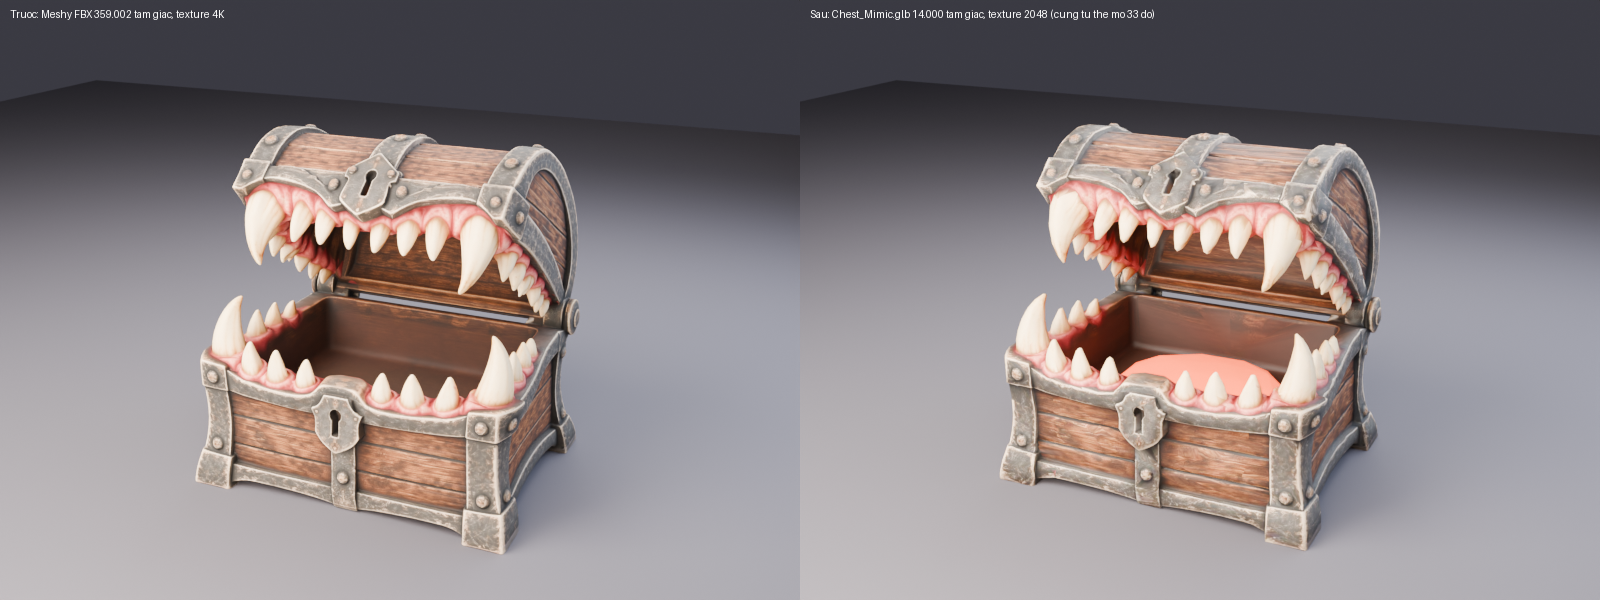
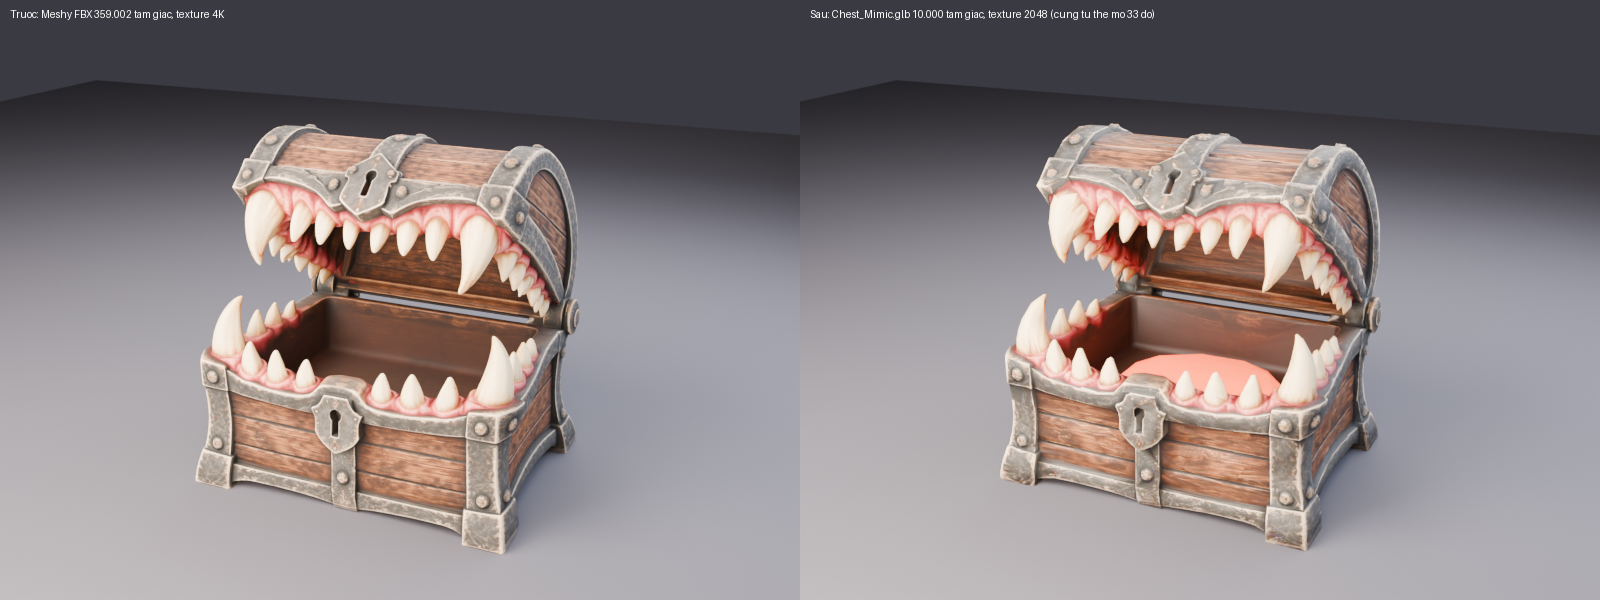
Mimic chest: decimate further to 10k triangles
Claude-Session: https://claude.ai/code/session_01QKQCdYo7BFYvGsVFMLsows

diff --git a/Tools/Blender/make_mimic_chest.py b/Tools/Blender/make_mimic_chest.py
@@ -11,7 +11,7 @@ Result: root <name> -> Body, Lid (origin on the back hinge, rotates about X, fro
 No Key layer: a mimic has no lock to open.
 
 Run:  python make_mimic_chest.py -- <dir with fbx+png> <out.glb> [name=Chest_Mimic] [target closed height m=0.42]
-        [lid tris=7000] [body tris=7000] [tex size=2048] [close angle deg=33] [seam z=-0.2] [hinge "y,z"=0.625,-0.186]
+        [lid tris=5000] [body tris=5000] [tex size=2048] [close angle deg=33] [seam z=-0.2] [hinge "y,z"=0.625,-0.186]
 Needs Blender (`pip install bpy` works) and Pillow.
 """
 import sys, os, glob, math, tempfile
@@ -25,8 +25,8 @@ a = sys.argv[sys.argv.index("--") + 1:]
 src_dir, out = a[0], a[1]
 name = a[2] if len(a) > 2 else "Chest_Mimic"
 target_h = float(a[3]) if len(a) > 3 else 0.42
-lid_tris = int(a[4]) if len(a) > 4 else 7000
-body_tris = int(a[5]) if len(a) > 5 else 7000
+lid_tris = int(a[4]) if len(a) > 4 else 5000
+body_tris = int(a[5]) if len(a) > 5 else 5000
 tex_size = int(a[6]) if len(a) > 6 else 2048
 close_deg = float(a[7]) if len(a) > 7 else 33.0
 seam_z = float(a[8]) if len(a) > 8 else -0.2

diff --git a/Docs/Art/BanGiao3D.md b/Docs/Art/BanGiao3D.md
@@ -196,14 +196,14 @@ Tham số: độ cao đường nối nắp theo đơn vị nguồn (0,03, nằm 
 `Assets/_Project/Art/Chests/Chest_Mimic.glb`, **chưa gán chủ đề hay ID rương** vì danh sách chủ đề chưa chốt. Nguồn: FBX Meshy do chủ dự án cung cấp (`Art/Source/MeshyChests/Mimic/`, 359 nghìn tam giác, texture 4K, không tốn credit mới). Tạo bằng `Tools/Blender/make_mimic_chest.py`, xem ảnh bằng `Tools/Blender/cycles_mimic_preview.py`:
 
 ```
-python make_mimic_chest.py -- <thư mục fbx+png> Assets/_Project/Art/Chests/Chest_Mimic.glb Chest_Mimic 0.42 7000 7000 2048 33
+python make_mimic_chest.py -- <thư mục fbx+png> Assets/_Project/Art/Chests/Chest_Mimic.glb Chest_Mimic 0.42 5000 5000 2048 33
 ```
 
-- **Cấu trúc:** root `Chest_Mimic` gồm `Body` (7,0 nghìn tam giác), `Lid` (7,0 nghìn, **gốc ở bản lề phía sau**, xoay quanh trục X, mặt trước là -Y, mở bằng góc âm quanh X như Golden) và `Glow` (quầng đỏ cam trong miệng, ẩn bằng scale). **Tổng 14,0 nghìn tam giác**, kích thước đóng khoảng 0,51 x 0,44 x 0,42 m. Không có `Key`, `Seal`, `Binding` (rương quái không có ổ khóa; ổ khóa trên thân và nắp nằm trong texture).
+- **Cấu trúc:** root `Chest_Mimic` gồm `Body` (5,0 nghìn tam giác), `Lid` (5,0 nghìn, **gốc ở bản lề phía sau**, xoay quanh trục X, mặt trước là -Y, mở bằng góc âm quanh X như Golden) và `Glow` (quầng đỏ cam trong miệng, ẩn bằng scale). **Tổng 10,0 nghìn tam giác**, kích thước đóng khoảng 0,51 x 0,44 x 0,42 m. Không có `Key`, `Seal`, `Binding` (rương quái không có ổ khóa; ổ khóa trên thân và nắp nằm trong texture).
 - **Cách tách nắp (phương án a):** FBX gốc đã mở sẵn (nắp mở khoảng 33° quanh bản lề), là một mesh liền. Nắp và thân nối nhau chỉ ở dải tiếp xúc rất mỏng nên tách theo **tính liên thông**: đỉnh cao hơn z = -0,2 (đơn vị nguồn) thuộc cùng khối lớn là nắp (gồm răng trên), mảnh còn lại là thân (răng nanh hai bên thân nhô cao), dải tiếp xúc chia theo lan từ hai phía. Gốc nắp đặt ở tâm hai đĩa bản lề (y = 0,625, z = -0,186 đơn vị nguồn). Sau đó xoay nắp **đóng lại 33°** để rương bắt đầu như rương thường. Ảnh so sánh cùng tư thế 33° cho thấy nắp khớp với mô hình gốc, tức tâm xoay đúng.
 - **Răng khi đóng:** răng trên và răng dưới đầu mút gần chạm nhau, có vài khe tối, nhìn không thấy xuyên rõ ràng; **chưa đo xuyên bằng số** (phép đo theo pháp tuyến không tin cậy vì thân rỗng). Nếu thấy xuyên trong Unity, cho `lidOpenSign` hé 1 đến 2° hoặc chạy lại với góc đóng 31°.
-- **Giảm tam giác:** Decimate Collapse riêng từng nửa (nắp 211 nghìn xuống 7 nghìn, thân 148 nghìn xuống 7 nghìn). Răng vẫn rõ nét (ảnh `Art/Source/render_chest_mimic_decimate.png`: trước 359 nghìn, sau 14 nghìn, cùng tư thế). Bật "giữ biên UV" (`delimit UV`) cho kết quả y hệt nên không dùng. Một mảng gỗ mờ ở thân là do texture Meshy gốc.
-- **Texture:** 4096 ép xuống 2048, một vật liệu, chỉ màu cơ bản (nguồn không có normal hay roughness), xuất JPEG 88 nên file glb khoảng 1,3 MB. Cycles cho thấy 2048 còn rõ răng và đai sắt.
+- **Giảm tam giác:** Decimate Collapse riêng từng nửa (nắp 211 nghìn xuống 5 nghìn, thân 148 nghìn xuống 5 nghìn; thử 7 nghìn mỗi nửa thấy gần như không khác nên giảm thêm). Răng vẫn rõ nét (ảnh `Art/Source/render_chest_mimic_decimate.png`: trước 359 nghìn, sau 10 nghìn, cùng tư thế). Bật "giữ biên UV" (`delimit UV`) cho kết quả y hệt nên không dùng. Một mảng gỗ mờ ở thân là do texture Meshy gốc.
+- **Texture:** 4096 ép xuống 2048, một vật liệu, chỉ màu cơ bản (nguồn không có normal hay roughness), xuất JPEG 88 nên file glb khoảng 1,2 MB. Cycles cho thấy 2048 còn rõ răng và đai sắt.
 - **Ảnh xem trước:** `Art/Source/render_chest_mimic_open.png` (đóng, hé 12°, há miệng 65°), dựng bằng Cycles ngoại tuyến, **không phải ảnh chụp từ Unity**; ánh sáng, vật liệu và chiều xoay nắp chưa kiểm chứng trong Unity. Glow trong ảnh hơi nhạt, ra màu cá hồi vì tông màu AgX.
 - **Gợi ý hiệu ứng riêng:** rung mạnh, rồi nắp **há ra và đóng sập một lần như cắn** (kèm rung cả hộp và âm thanh), sau đó mới chạy các giai đoạn mở thường: hé nắp, bật nắp, há toang với `Glow` đỏ cam. Góc há toang cuối nên khoảng 60° đến 75° thay vì 105°, vì nắp dày và răng dài. Đã thêm tuỳ chọn `biteIntro` vào `BoxOpenSequence` (mặc định tắt nên các rương khác không đổi hành vi): `biteCount`, `biteOpenAngle`, `biteOpenTime`, `biteHoldOpen`, `biteSlamTime`, `biteSlamShake`, `biteRestTime` và sự kiện `onBite` (đúng lúc nắp sập, gắn âm thanh). Đoạn mã này **chưa biên dịch** vì máy này không có Unity hay trình biên dịch C#.
 - **Lưu ý cho chủ dự án (phong cách):** Mimic là mô hình thực tế, có răng chi tiết, texture 2048 và tông gỗ sẫm, sắt cũ, khác hướng low-poly màu trung tính của repo. Đặt cạnh các rương và đồ khác có thể lệch phong cách; cần chủ dự án quyết định giữ hay làm lại theo hướng low-poly.
